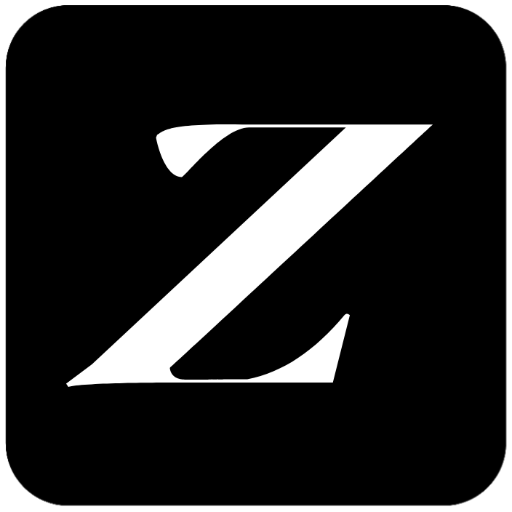
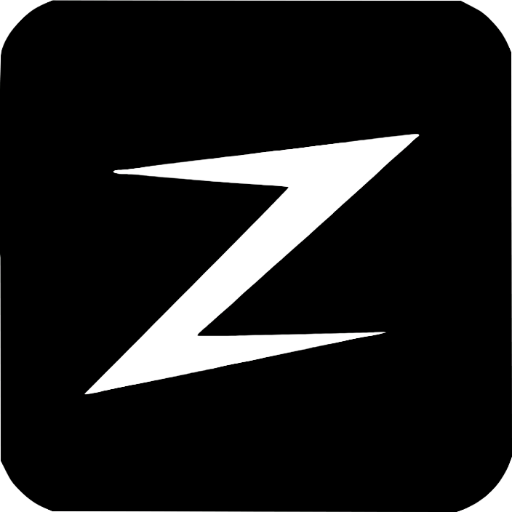
Squashed commit of the following:
commit 86bafd38bc86dd9debdc18ff4c9b38b447518042
Merge: 9512778 91636e9
Author: achanam <dev@achanam.com>
Date:   Tue Sep 1 04:32:35 2026 +0700

    Style(favicon): change favicon and logo with the new one

commit 95127781614ea25ac3628ce3e2f6eb32a69eed6a
Author: achanam <dev@achanam.com>
Date:   Tue Sep 1 04:09:55 2026 +0700

    Add sticky top navbar shared across all pages and update tagline

diff --git a/src/components/Send-Logic/icons.tsx b/src/components/Send-Logic/icons.tsx
@@ -122,6 +122,48 @@ export const BrandLockIcon = (p: IconProps) => (
   </svg>
 );
 
+export const BrandMarkIcon = (p: IconProps) => (
+  <svg viewBox="0 0 1280 1280" xmlns="http://www.w3.org/2000/svg" {...p}>
+    <g transform="translate(0.000000,1280.000000) scale(0.100000,-0.100000)" fill="currentColor" stroke="none">
+      <path d="M10280 9439 c-41 -4 -118 -13 -170 -19 -52 -6 -135 -16 -185 -21
+-152 -17 -257 -29 -325 -39 -72 -10 -271 -33 -425 -50 -167 -18 -268 -30 -318
+-40 -27 -6 -63 -10 -80 -10 -17 0 -56 -4 -86 -10 -31 -5 -105 -14 -166 -20
+-60 -6 -141 -15 -180 -20 -38 -5 -107 -14 -152 -20 -46 -5 -118 -14 -160 -20
+-43 -5 -152 -20 -243 -31 -91 -12 -194 -25 -230 -30 -83 -12 -212 -27 -320
+-39 -47 -5 -114 -14 -150 -20 -36 -6 -112 -15 -170 -20 -116 -10 -329 -35
+-430 -49 -213 -31 -639 -85 -786 -101 -54 -5 -148 -17 -209 -25 -60 -8 -155
+-20 -210 -25 -55 -6 -136 -15 -180 -21 -44 -5 -120 -14 -170 -19 -49 -5 -124
+-14 -165 -20 -105 -15 -197 -26 -415 -49 -104 -11 -219 -25 -255 -30 -61 -9
+-117 -17 -312 -41 -81 -11 -148 -21 -273 -41 -129 -20 -317 -42 -470 -53 -164
+-13 -209 -24 -203 -54 5 -25 116 -50 233 -51 119 -2 434 -24 630 -45 77 -8
+230 -22 340 -30 110 -9 254 -21 320 -26 66 -6 176 -15 245 -21 69 -5 161 -14
+205 -19 44 -5 121 -12 170 -16 50 -3 140 -10 200 -15 61 -5 169 -14 240 -19
+72 -5 222 -16 335 -25 113 -8 279 -20 370 -26 91 -6 224 -15 295 -20 72 -5
+200 -13 285 -18 311 -18 500 -40 500 -58 0 -16 -301 -329 -992 -1028 -158
+-159 -425 -431 -595 -602 -169 -172 -758 -765 -1308 -1319 -2003 -2016 -2194
+-2209 -2187 -2216 11 -10 288 32 379 57 48 14 186 45 293 66 25 5 65 14 90 20
+25 5 65 14 90 18 25 5 68 14 95 20 28 6 82 18 120 26 39 8 97 20 130 25 57 9
+164 30 250 49 22 5 67 15 100 21 33 6 76 16 95 20 19 5 96 21 170 35 74 14
+176 34 225 44 50 11 128 27 175 36 47 10 103 21 125 26 22 6 76 16 120 25 44
+8 87 17 95 20 13 5 65 16 315 65 81 16 147 29 195 39 25 6 70 14 100 19 30 5
+96 19 145 31 148 36 317 72 465 101 30 6 73 14 95 19 22 4 101 20 175 34 74
+14 153 30 175 35 36 9 77 19 175 41 46 10 362 78 420 90 25 5 88 18 140 30 52
+11 118 25 145 30 28 6 68 14 90 19 75 16 190 40 280 56 50 10 115 24 145 32
+30 8 78 18 105 23 28 6 70 14 95 20 25 6 68 14 95 19 155 30 322 63 410 82 55
+12 139 30 188 40 48 11 129 28 180 39 131 29 307 61 432 80 71 11 211 41 315
+68 64 17 71 21 49 27 -15 3 -64 4 -110 2 -164 -10 -1171 -37 -2144 -57 -225
+-5 -610 -13 -855 -19 -693 -16 -1481 -25 -1522 -17 -23 4 -38 13 -38 21 0 15
+114 129 185 185 22 17 42 35 45 38 3 4 23 23 46 42 236 204 572 504 829 740
+69 65 240 217 305 273 25 22 70 62 101 90 30 29 91 84 134 122 44 39 147 131
+230 205 82 74 171 153 197 175 90 76 707 624 738 655 8 8 38 35 65 59 28 24
+75 67 105 95 30 29 109 99 175 156 66 58 161 143 210 190 96 90 220 202 430
+390 126 113 160 144 359 325 55 50 108 98 120 108 73 64 193 173 266 242 159
+151 225 212 320 295 52 46 120 107 150 134 31 28 67 60 82 71 31 24 176 155
+270 244 37 35 82 75 99 90 87 70 83 65 65 84 -19 19 -60 20 -186 6z" />
+    </g>
+  </svg>
+);
+
 export const HomeIcon = (p: IconProps) => (
   <svg viewBox="0 0 16 16" fill="none" xmlns="http://www.w3.org/2000/svg" {...p}>
     <path d="M2 7.5L8 2.5l6 5" stroke="currentColor" strokeWidth="1.3" strokeLinecap="round" strokeLinejoin="round" />

diff --git a/src/components/Receive-Logic/ReceiveView.tsx b/src/components/Receive-Logic/ReceiveView.tsx
@@ -1,6 +1,7 @@
 "use client";
 
 import { useEffect, useState } from "react";
+import { BrandMarkIcon } from "@/components/Send-Logic/icons";
 import { PasswordPrompt } from "./PasswordPrompt";
 import { TextResult } from "./TextResult";
 import { FileResult } from "./FileResult";
@@ -109,12 +110,7 @@ export function ReceiveView({ slug }: { slug: string }) {
   return (
     <div className={`${styles.panel} ${styles["receive-card"]}`}>
       <div className={styles["receive-icon"]}>
-        {/* Lock glyph — same as password prompt, just larger via CSS */}
-        <svg viewBox="0 0 16 16" fill="none" xmlns="http://www.w3.org/2000/svg">
-          <rect x="3" y="7.5" width="10" height="6.5" rx="1.5" stroke="currentColor" strokeWidth="1.3" />
-          <path d="M5.5 7.5V5.5C5.5 4.12 6.62 3 8 3v0c1.38 0 2.5 1.12 2.5 2.5v2" stroke="currentColor" strokeWidth="1.3" strokeLinecap="round" />
-          <circle cx="8" cy="10.75" r="1" fill="currentColor" />
-        </svg>
+        <BrandMarkIcon />
       </div>
 
       {phase.step === "loading" && <p className={styles["status-note"]}>Opening…</p>}

diff --git a/src/components/Navbar.tsx b/src/components/Navbar.tsx
@@ -2,7 +2,7 @@
 
 import Link from "next/link";
 import { usePathname } from "next/navigation";
-import { BrandLockIcon, HomeIcon, SendIcon, HelpCircleIcon } from "@/components/Send-Logic/icons";
+import { BrandMarkIcon, HomeIcon, SendIcon, HelpCircleIcon } from "@/components/Send-Logic/icons";
 import styles from "@/styles/navbar.module.css";
 import type { SVGProps } from "react";
 
@@ -39,7 +39,7 @@ export function Navbar() {
           className={styles.brand}
           aria-label="Zero Zephyr on GitHub"
         >
-          <BrandLockIcon className={styles["brand-icon"]} />
+          <BrandMarkIcon className={styles["brand-icon"]} />
           <span className={styles["brand-text"]}>
             ZERO <span>ZEPHYR</span>
           </span>

diff --git a/src/styles/navbar.module.css b/src/styles/navbar.module.css
@@ -27,8 +27,8 @@
 }
 
 .brand-icon {
-  width: 22px;
-  height: 22px;
+  width: 28px;
+  height: 28px;
   color: var(--accent);
   flex-shrink: 0;
 }
